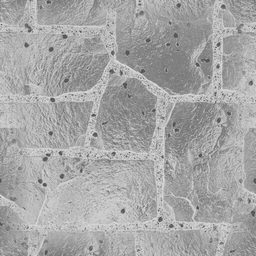
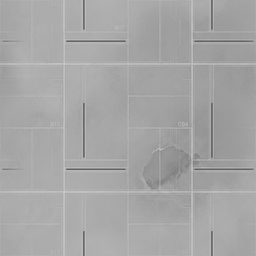
Resurface the city and light the market lane
Ivan asked for a sidewalk that reads cyberpunk rather than rugged, and for the
city's lighting to match.

Paving: two new tiling albedos (nano-banana-pro, $0.30 and $0.15) replace the
mossy cracked concrete -- machined composite slabs with recessed inlays, one for
the street pavements and one for the civic plazas. scripts/texture-maps.py
derives their normal, roughness and occlusion and the phone-tier halves, and
heals the tile seam, so this is four channels per set for the price of one
image. The plaza is tinted down: the new stone is lighter than what it replaced
and at full albedo it was the brightest thing in the district (121 against the
old 96; now 104).

The inlays glow from the shader, not from the texture. streets.ts keys an
emissive off the albedo's brightest pixels wherever paving is drawn, so
SEAM_GLOW is the single dial for how lit the city's pavements look -- which is
also why I picked the dimmer of the two candidates: the brighter one baked its
strips in and could never be turned down.

Market: its stalls were the only lights there, at intensity 35 and range 7,
which lit each stall and nothing else while Downtown 90 u away was bright. Range
is now 14 and each stall throws its own accent colour onto the lane as a decal
(props.ts lightPools, new -- the point-light pool is fixed-size, so real lights
would evict district lights elsewhere). A continuous warm run down the aisle was
tried first and turned the market into a beige carpet; coloured puddles with
[…]

diff --git a/src/scene/night/districts/kabuki.ts b/src/scene/night/districts/kabuki.ts
@@ -3,6 +3,7 @@ import { mergeGeometries } from 'three/addons/utils/BufferGeometryUtils.js';
 import { facadeBlock, stringLights, type DistrictBuild, type DistrictCtx } from './shared';
 import { CURB_H } from '../streets';
 import { MARKET_STALLS, MARKET_BOLLARDS, MARKET_BUILDINGS } from '../market-layout';
+import { lightPools } from '../props';
 import { loader } from '../palette';
 
 /** Pedestrian bazaar around a central public terminal, with clear circulation on both sides. */
@@ -124,8 +125,10 @@ export async function create(ctx: DistrictCtx): Promise<DistrictBuild> {
       }
       if(s.kind==='repair') for(let k=0;k<4;k++) box(p,ceramic,.08,.48,.06,.5+k*.3,2.3,-1.65);
     }
-    // Keep the source away from the front curtain: close point lighting caused a white hotspot.
-    lights.push([s.x,2.8,s.z-.25*Math.cos(s.yaw),s.accent,35,7]);
+    // Keep the source away from the front curtain: close point lighting caused a white hotspot. Range was
+    // 7 u, which lit the stall and nothing else: the lane between the two rows read as mud while Downtown,
+    // 90 u away, was bright. Reaching across the lane is what makes the market feel like a street.
+    lights.push([s.x,2.8,s.z-.25*Math.cos(s.yaw),s.accent,70,14]);
   }
   // A compact directory crown makes the centre legible from across the market.
   // Supports sit within the terminal's existing collision footprint.
@@ -165,5 +168,10 @@ export async function create(ctx: DistrictCtx): Promise<DistrictBuild> {
     if(merged) group.add(new THREE.Mesh(merged,mat));
     geos.forEach(g=>g.dispose());
   }
+  // Each stall throws its own accent colour onto the lane in front of it. Decals, not lights: the point-light
+  // pool is fixed-size (props.ts lightPools). Tight and separated on purpose — a continuous warm run across
+  // the whole aisle was tried and turned the market into a beige carpet; what reads as a night market is
+  // coloured puddles with dark between them.
+  for (const s of MARKET_STALLS) group.add(lightPools([[s.x, s.z + (s.yaw ? 4.4 : -4.4), 5]], s.accent, { y: CURB_H + 0.06, strength: 0.6 }));
   return {group,props:[],lights};
 }

diff --git a/src/scene/night/streets.ts b/src/scene/night/streets.ts
@@ -1,6 +1,6 @@
 import * as THREE from 'three/webgpu';
 import {
-  positionWorld, step, fract, smoothstep, hash, floor, mix, color, float, texture, abs, max, min, vec2, normalMap, uniform,
+  positionWorld, step, fract, smoothstep, hash, floor, mix, color, float, texture, abs, max, min, vec2, normalMap, uniform, luminance,
 } from './tsl';
 import { loader, params, rng } from './palette';
 import { MARKET, isMarketLane } from './market-layout';
@@ -29,6 +29,8 @@ export const CURB_H = 0.22;
 export const PATCH_LIFT = 0.015;
 /** Waterfront edge: streets stop here, the bay begins. */
 export const QUAY_Z = -20;
+/** How brightly the paving's inlaid seams glow. The albedo keeps them dim so this stays the only dial. */
+const SEAM_GLOW = 0.85;
 
 function canvasTex(size: number, draw: (g: CanvasRenderingContext2D, s: number, r: () => number) => void, seed: number) {
   const c = document.createElement('canvas');
@@ -231,7 +233,13 @@ export function createStreets(tex: GroundTextures, walls?: WallSets) {
     const occ = mix(texture(tex.paversAO, uvP).r, texture(tex.asphaltAO, uvA).r, road);
     m.aoNode = mix(occ, float(1), max(puddle, max(paintY, paintW)));
   }
-  m.emissiveNode = mix(color(0xd9c56a).mul(paintY), color(0xd8dde8).mul(paintW), paintW).mul(0.25);
+  // Lane paint reads as paint; the paving's recessed seams read as light. The sidewalk albedo
+  // (design/night/prompts/sidewalk.txt) has pale strips inlaid between its slabs, so key an emissive off its
+  // brightest pixels wherever paving is drawn. Keeping the glow here rather than baking it bright into the
+  // texture is what makes it tunable — SEAM_GLOW is the one dial for how lit the city's pavements look.
+  const paint = mix(color(0xd9c56a).mul(paintY), color(0xd8dde8).mul(paintW), paintW).mul(0.25);
+  const seam = smoothstep(0.34, 0.66, luminance(pave.rgb)).mul(float(1).sub(road));
+  m.emissiveNode = paint.add(color(0x8fe8ff).mul(seam).mul(uniform(SEAM_GLOW)));
   if (tex.asphaltN && tex.paversN) {
     const nA = texture(tex.asphaltN, uvA), nP = texture(tex.paversN, uvP);
     m.normalNode = normalMap(mix(nP, nA, road), vec2(0.9, 0.9));

diff --git a/src/scene/night/props.ts b/src/scene/night/props.ts
@@ -207,3 +207,30 @@ export async function createProps({ tier, extra = [] }: PropsOptions) {
   const matrices = Object.fromEntries(kinds.map((k) => [k, geos[k] ? place[k] ?? [] : []])) as Record<PropKind, THREE.Matrix4[]>;
   return { group, count: total, placements, matrices };
 }
+
+/**
+ * A patch of light on the ground, as geometry rather than as a light.
+ *
+ * The point-light pool is a fixed size (lights.ts), so every real light added anywhere in the city evicts
+ * one somewhere else. Most of what reads as "lit pavement" in a night scene is not lighting at all — it is
+ * the pool of light under a lamp or a sign — and a flat radial decal delivers that for one draw per colour,
+ * with no shader recompile and no cost to the pool. The street lamps above have used this since the start;
+ * this is the same recipe, exposed so districts can put colour under their own signage.
+ *
+ * `spots` are world x, z and radius. Rendered just above the ground (the caller gives the height), additive
+ * and depth-write-free so wet asphalt keeps showing through.
+ */
+export function lightPools(spots: [number, number, number][], tint: number, opts: { y?: number; strength?: number } = {}) {
+  const mat = new THREE.MeshBasicNodeMaterial({ transparent: true, depthWrite: false, blending: THREE.AdditiveBlending });
+  mat.fog = false;
+  const d = uv().sub(0.5).length();
+  mat.colorNode = color(tint);
+  mat.opacityNode = float(1).sub(smoothstep(0.06, 0.5, d)).mul(opts.strength ?? 0.4);
+  const mesh = new THREE.InstancedMesh(new THREE.PlaneGeometry(1, 1), mat, spots.length);
+  const flat = new THREE.Quaternion().setFromAxisAngle(new THREE.Vector3(1, 0, 0), -Math.PI / 2);
+  spots.forEach(([x, z, r], i) => mesh.setMatrixAt(i, new THREE.Matrix4().compose(
+    new THREE.Vector3(x, opts.y ?? 0.05, z), flat, new THREE.Vector3(r * 2, r * 2, 1))));
+  mesh.frustumCulled = false;
+  mesh.renderOrder = -1;
+  return mesh;
+}

diff --git a/src/scene/night/districts/japantown.ts b/src/scene/night/districts/japantown.ts
@@ -143,7 +143,9 @@ export async function create(ctx: DistrictCtx): Promise<DistrictBuild> {
   // faces would otherwise be coplanar and z-fight (blocky interleaving around the torii). The approach starts at the
   // plaza's north edge so the two patches never overlap each other.
   const g = ctx.tex.ground;
-  const plazaMat = g?.plaza ? groundMaterial(g.plaza, g.plazaN, 7, { roughness: 0.5, rough: g.plazaR, ao: g.plazaAO }) : new THREE.MeshStandardNodeMaterial({ color: T.ground, roughness: 0.8 });
+  // Tinted down: the machined paving (design/night/prompts/plaza.txt) is a lighter stone than the mossy
+  // slabs it replaced, and at full albedo the plaza was the brightest thing in the district.
+  const plazaMat = g?.plaza ? groundMaterial(g.plaza, g.plazaN, 7, { roughness: 0.5, tint: 0xb9bec9, rough: g.plazaR, ao: g.plazaAO }) : new THREE.MeshStandardNodeMaterial({ color: T.ground, roughness: 0.8 });
   const plaza = new THREE.Mesh(new THREE.BoxGeometry(84, CURB_H + PATCH_LIFT, 62), plazaMat);
   plaza.position.set(c.x, (CURB_H + PATCH_LIFT) / 2, c.z);
   group.add(plaza);
